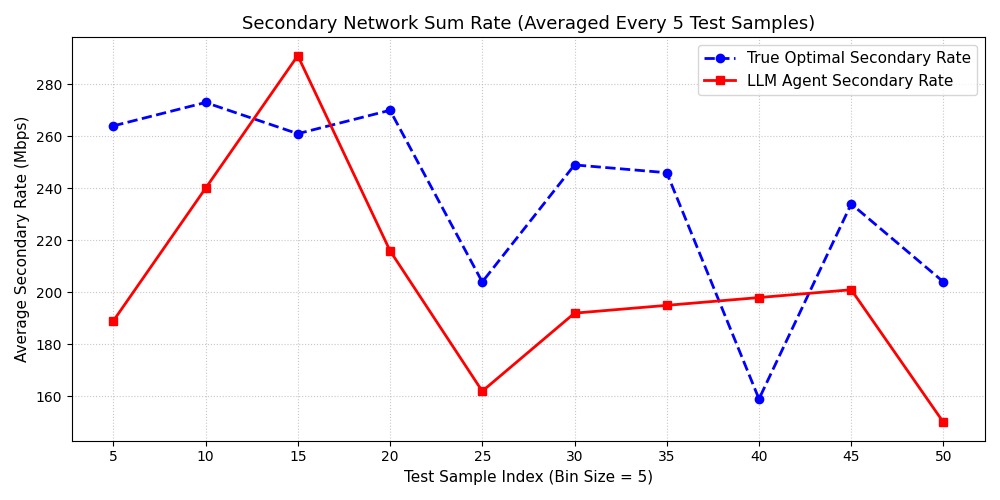
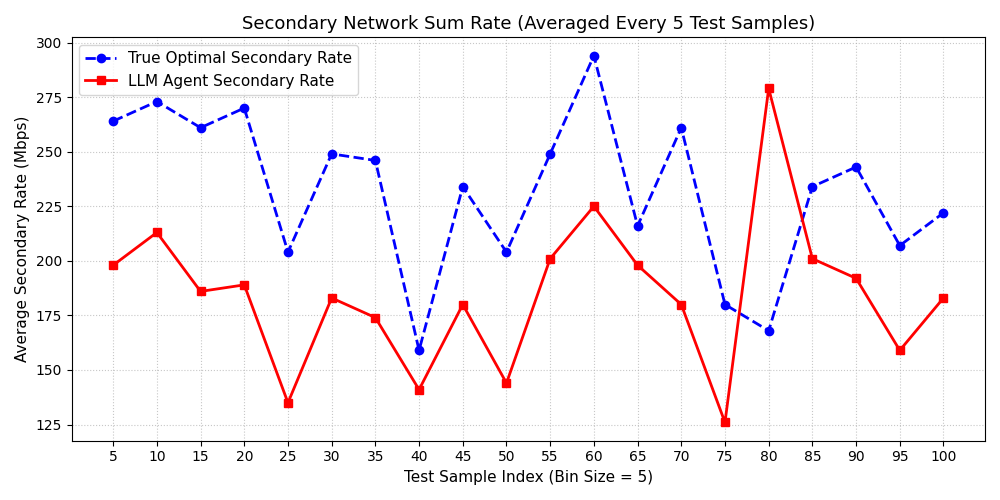
tmantik

diff --git a/5Agents_work_on_power_alloc/tmantik.py b/5Agents_work_on_power_alloc/tmantik.py
@@ -495,9 +495,9 @@ workflow.add_conditional_edges(
 
 app = workflow.compile()
 
-data = gen_channels(190)
+data = gen_channels(200)
 train = data[:100]
-test = data[100:150]
+test = data[100:]
 
 prompt_secondary_allocation = build_prompt(train)
 
